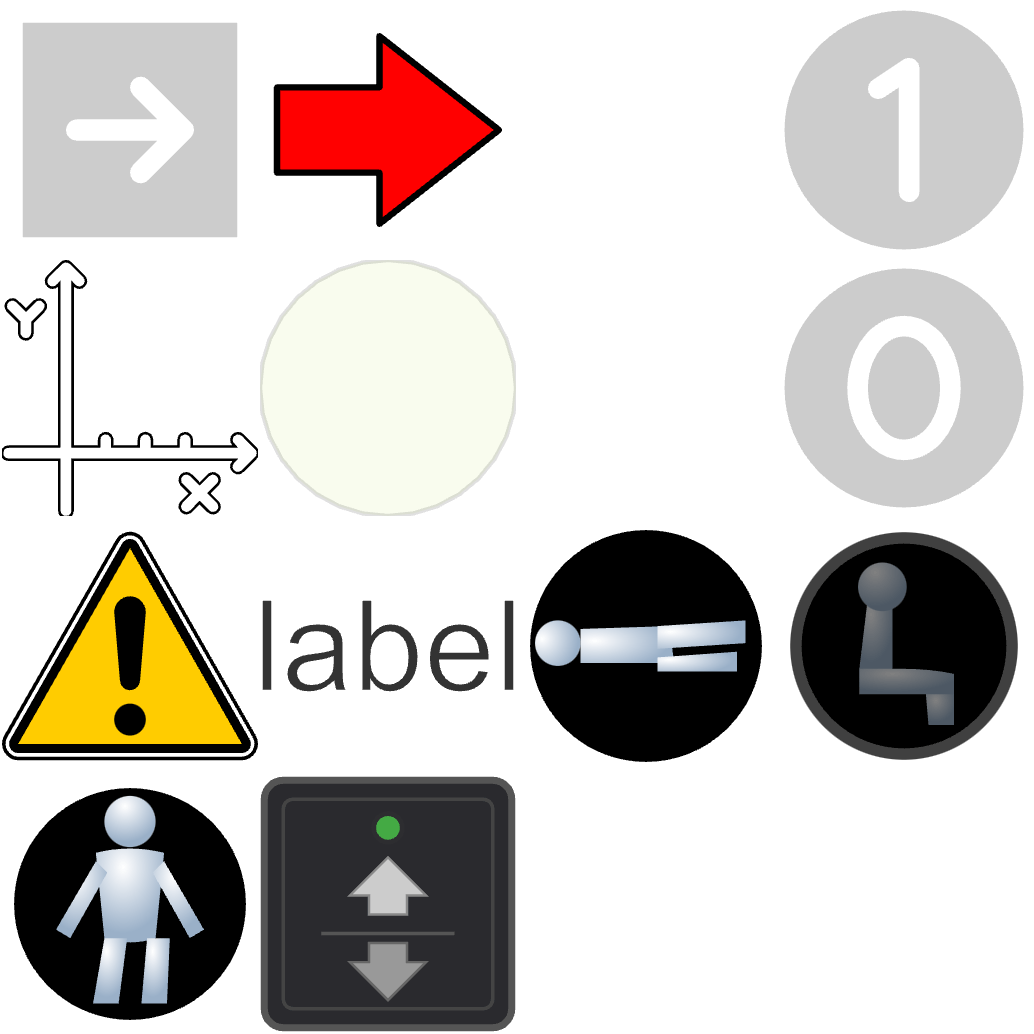
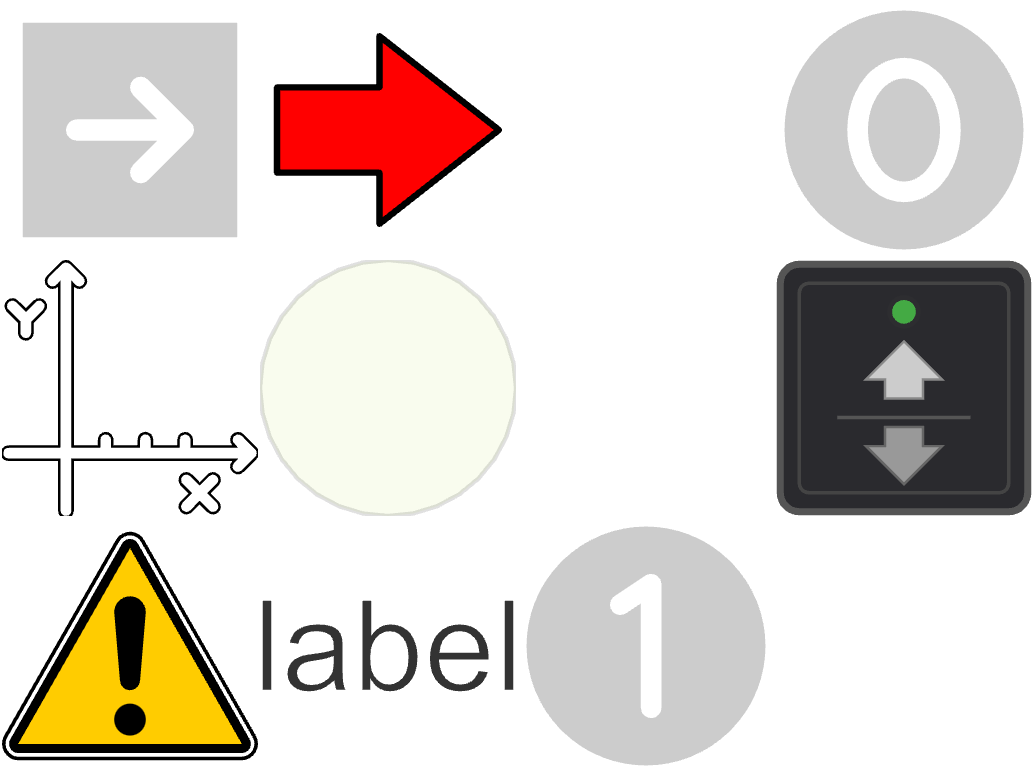
fix: show underlying arrows in debug points + fix decor point rotation

diff --git a/packages/ui/world/src/components/Decor.tsx b/packages/ui/world/src/components/Decor.tsx
@@ -182,13 +182,8 @@ export default function Decor() {
           return decor.meta;
         }
       },
-      getDecorPointImgKey(d) {
+      getDecorImgKey(d) {
         if (d.type === "quad" || d.type === "point") return d.meta.img ?? decorKeyFallback;
-
-        const meta = d.meta;
-        if (meta.do === "sit") return "sit-circled";
-        if (meta.do === "stand") return "stand-circled";
-        if (meta.do === "lie") return "lie-circled";
         return decorKeyFallback;
       },
       hasInstance(decor) {
@@ -260,7 +255,7 @@ export default function Decor() {
           if (!state.hasInstance(item)) {
             continue;
           }
-          const imgKey = state.getDecorPointImgKey(item);
+          const imgKey = state.getDecorImgKey(item);
           const entry = w.sheets.decor[imgKey] as DecorSheetEntry | undefined;
           if (!entry) {
             warn(`decor "${imgKey}" not found in sheets.json`);
@@ -301,7 +296,7 @@ export default function Decor() {
             continue;
           }
 
-          const imgKey = state.getDecorPointImgKey(decor);
+          const imgKey = state.getDecorImgKey(decor);
           const entry = w.sheets.decor[imgKey];
           if (!entry) {
             instanceId++;
@@ -349,7 +344,7 @@ export default function Decor() {
             // 🔔 fixed width/height independent of scale in MapEdit
             const pw = entry.originalWidth * sguToWorldScale;
             const ph = entry.originalHeight * sguToWorldScale;
-            const angle = (decor.orient - 90) * (Math.PI / 180);
+            const angle = decor.orient * (Math.PI / 180);
             const [cos, sin] = [Math.cos(angle), Math.sin(angle)];
             const [a, b, c, d] = [cos * pw, sin * pw, -sin * ph, cos * ph];
             // biome-ignore format: preserve newlines
@@ -492,7 +487,7 @@ export type State = {
   clearGrid(): void;
   create(def: Geomorph.DecorDef): Geomorph.Decor;
   decodeInstanceId(instanceId: number): Meta<Geomorph.GmRoomId> | null;
-  getDecorPointImgKey(decor: Geomorph.Decor): string;
+  getDecorImgKey(decor: Geomorph.Decor): string;
   ensureGmRoomId(d: Geomorph.Decor): Geomorph.GmRoomId | null;
   hasInstance(decor: Geomorph.Decor): boolean;
   /** Can only remove custom decor */

diff --git a/packages/ui/world/src/components/Debug.tsx b/packages/ui/world/src/components/Debug.tsx
@@ -135,7 +135,7 @@ export function Debug() {
         for (const gm of w.gms) {
           for (const decor of gm.decor) {
             if (decor.type !== "point" || decor.meta.on !== true) continue;
-            const imgKey = w.decor.getDecorPointImgKey(decor);
+            const imgKey = w.decor.getDecorImgKey(decor);
             const entry = w.sheets.decor[imgKey];
             if (!entry) {
               count++;
@@ -157,7 +157,7 @@ export function Debug() {
             (decorPointsGeo.getAttribute("uvTextureIds").array as Uint32Array)[count] = entry.sheetId;
             const pw = entry.originalWidth * sguToWorldScale;
             const ph = entry.originalHeight * sguToWorldScale;
-            const angle = (decor.orient - 90) * (Math.PI / 180);
+            const angle = decor.orient * (Math.PI / 180);
             const cos = Math.cos(angle),
               sin = Math.sin(angle);
             const a = cos * pw,

diff --git a/TODO.md b/TODO.md
@@ -19,7 +19,16 @@ w decor.byKey.test-decor-point
   - ✅ fix custom decor quad
     - no issue we need to use respective decor image
   - ✅ fix flipped decor
+  - ✅ can specify decor quad height via meta.h
+  - ✅ can pick decor quad
+    - 🔔 cuboid MUST not intersect other geometry else pick can be occluded
+  - 🚧 can render decor point via meta.shown
+    - ✅ can pick
+    - ✅ fix rotation
+    - fix flip
   - 🚧 render custom decor quads as separate instancedMesh
+    - need demo shell function
+  - Debug points can be picked
   - can remove custom decor
     - ❌ track gaps
 - can create colliders from decor rect/circle
